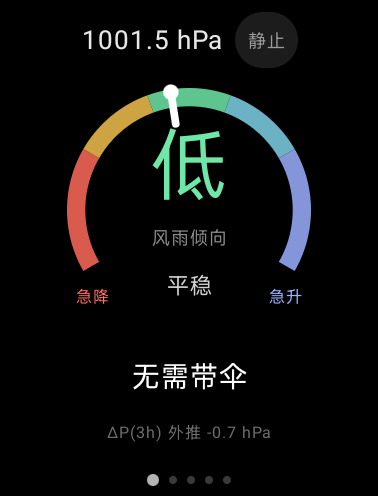
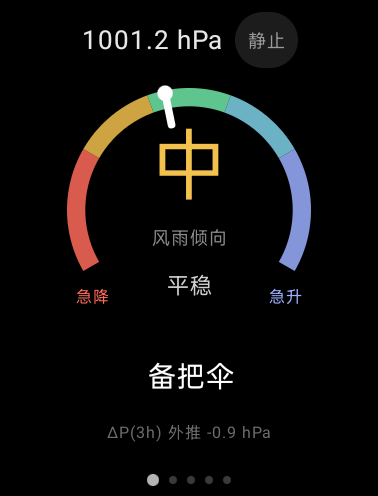
README：加上卦灵AI 的说明与入口（AI 报告的基础设施来自作者的另一个项目），并更新两张截图

diff --git a/README.md b/README.md
@@ -18,6 +18,7 @@
 ![Offline](https://img.shields.io/badge/core-100%25%20offline-8957E5?style=flat-square)
 ![Network](https://img.shields.io/badge/network-optional%2C%20opt--in-6E7681?style=flat-square)
 ![License](https://img.shields.io/badge/license-PolyForm%20Noncommercial%201.0.0-3B7DD8?style=flat-square)
+[![AI by 卦灵AI](https://img.shields.io/badge/AI%20by-%E5%8D%A6%E7%81%B5AI%20%C2%B7%20%E5%85%8D%E8%B4%B9-8B5CF6?style=flat-square)](https://gualing.top)
 
 </div>
 
@@ -88,6 +89,20 @@
 <sub>左：平台白名单拦掉了第三方本地通知，于是改成应用内确认卡 + 直接驱动马达　·　中：教你确认发什么、不发什么　·　右：报告里它自己区分出了"还没有不适打卡"，而不是把舒适当成症状</sub>
 
 </div>
+
+<br/>
+
+## AI 报告背后的基础设施：卦灵AI
+
+「生成 AI 报告」调用的不是某个大模型厂商的接口，而是 **[卦灵AI](https://gualing.top)** 的公共接口——
+本项目作者另一个项目在做的基础设施。
+
+> **卦灵AI 全功能完全免费**，[免费注册](https://gualing.top)即可使用。
+> 如果它对你的生活有帮助、你愿意让它继续跑下去，可以去
+> **[卦灵](https://gualing.top) 捐赠换取永久会员**。
+
+观风只用到它一个接口：纯文本 JSON 进、纯文本出。服务端做了限流（10 次 / 10 分钟 / IP），
+而这个应用本身只在用户显式点按钮时才发请求，**所以它永远不会成为那个服务的负担**。
 
 <br/>
 
